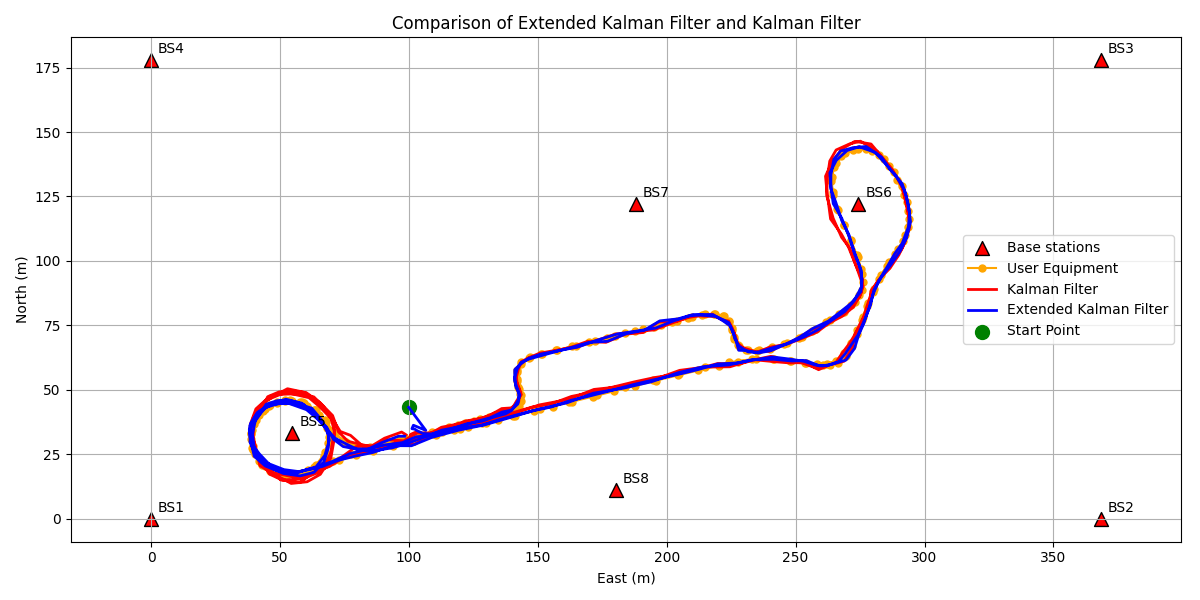
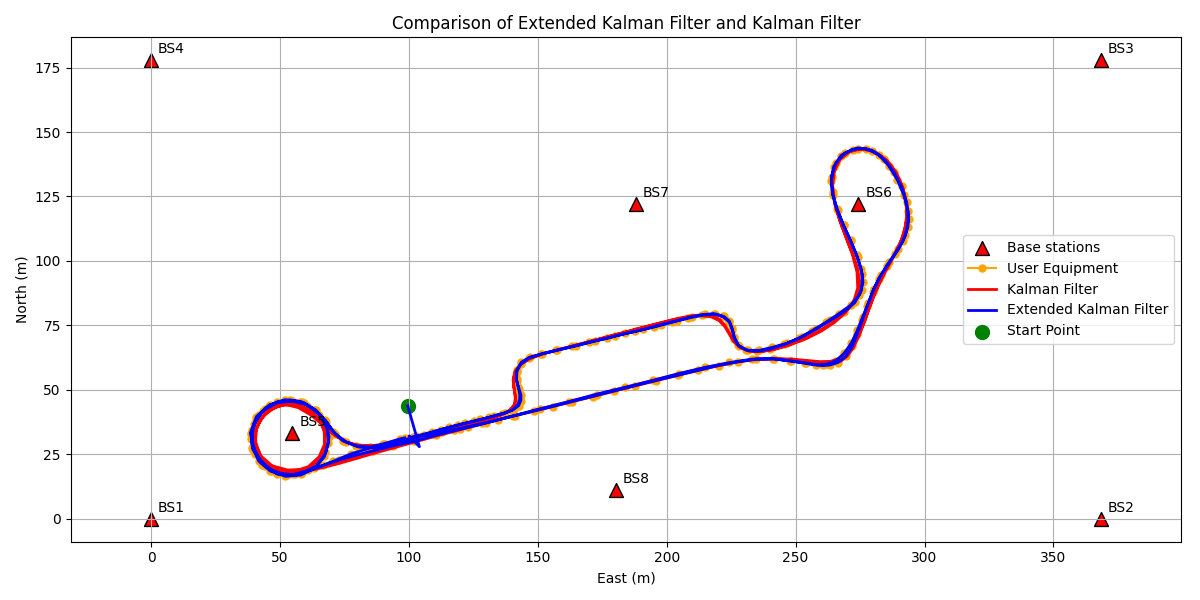
module GG in degrees fixed

diff --git a/modules/load_data.py b/modules/load_data.py
@@ -11,6 +11,16 @@ def O_GG_rad(O_GG):
     """
     return np.array([np.deg2rad(O_GG[0]), np.deg2rad(O_GG[1]), O_GG[2]])
 
+def O_GG_deg(O_GG_rad):
+    """
+    Convert origin in Global Geodetic coordinates from radians to degrees.
+    Args:
+        O_GG_rad (np.ndarray): Origin in radians (latitude, longitude, height).
+    Returns:
+        np.ndarray: Origin in Global Geodetic coordinates in degrees (latitude, longitude, height).
+    """
+    return np.array([np.rad2deg(O_GG_rad[0]), np.rad2deg(O_GG_rad[1]), O_GG_rad[2]])
+
 def create_origin(base_stations, base_station_height=20.):
     """
     Create the origin in Global Cartesian coordinates from base stations.
@@ -48,6 +58,6 @@ def transform_LC_to_GG(local_coords, origin_GG):
         np.ndarray: Coordinates in Global Geodetic coordinates.
     """
     O_GC = X_GG_GC(O_GG_rad(origin_GG))
-    return np.array([X_GC_GG(O_GC + R_GC_LC(O_GG_rad(origin_GG)).T @ X) for X in local_coords])
+    return O_GG_deg(np.array([X_GC_GG(O_GC + R_GC_LC(O_GG_rad(origin_GG)).T @ X) for X in local_coords]))
 
 
